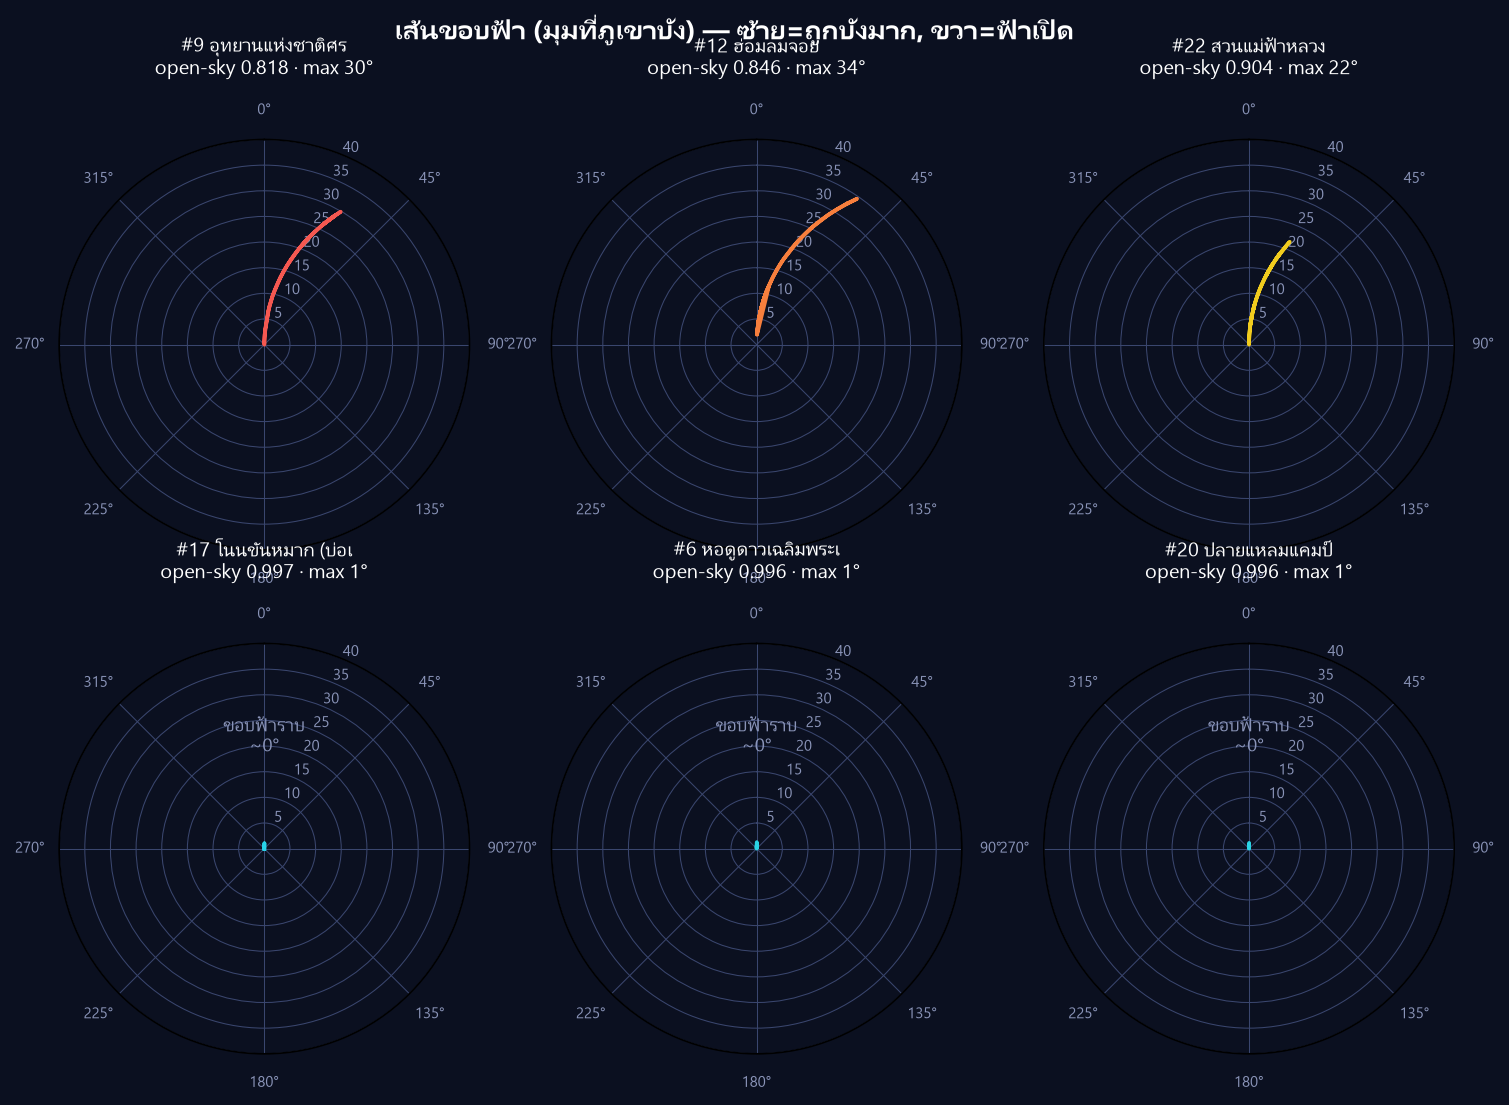
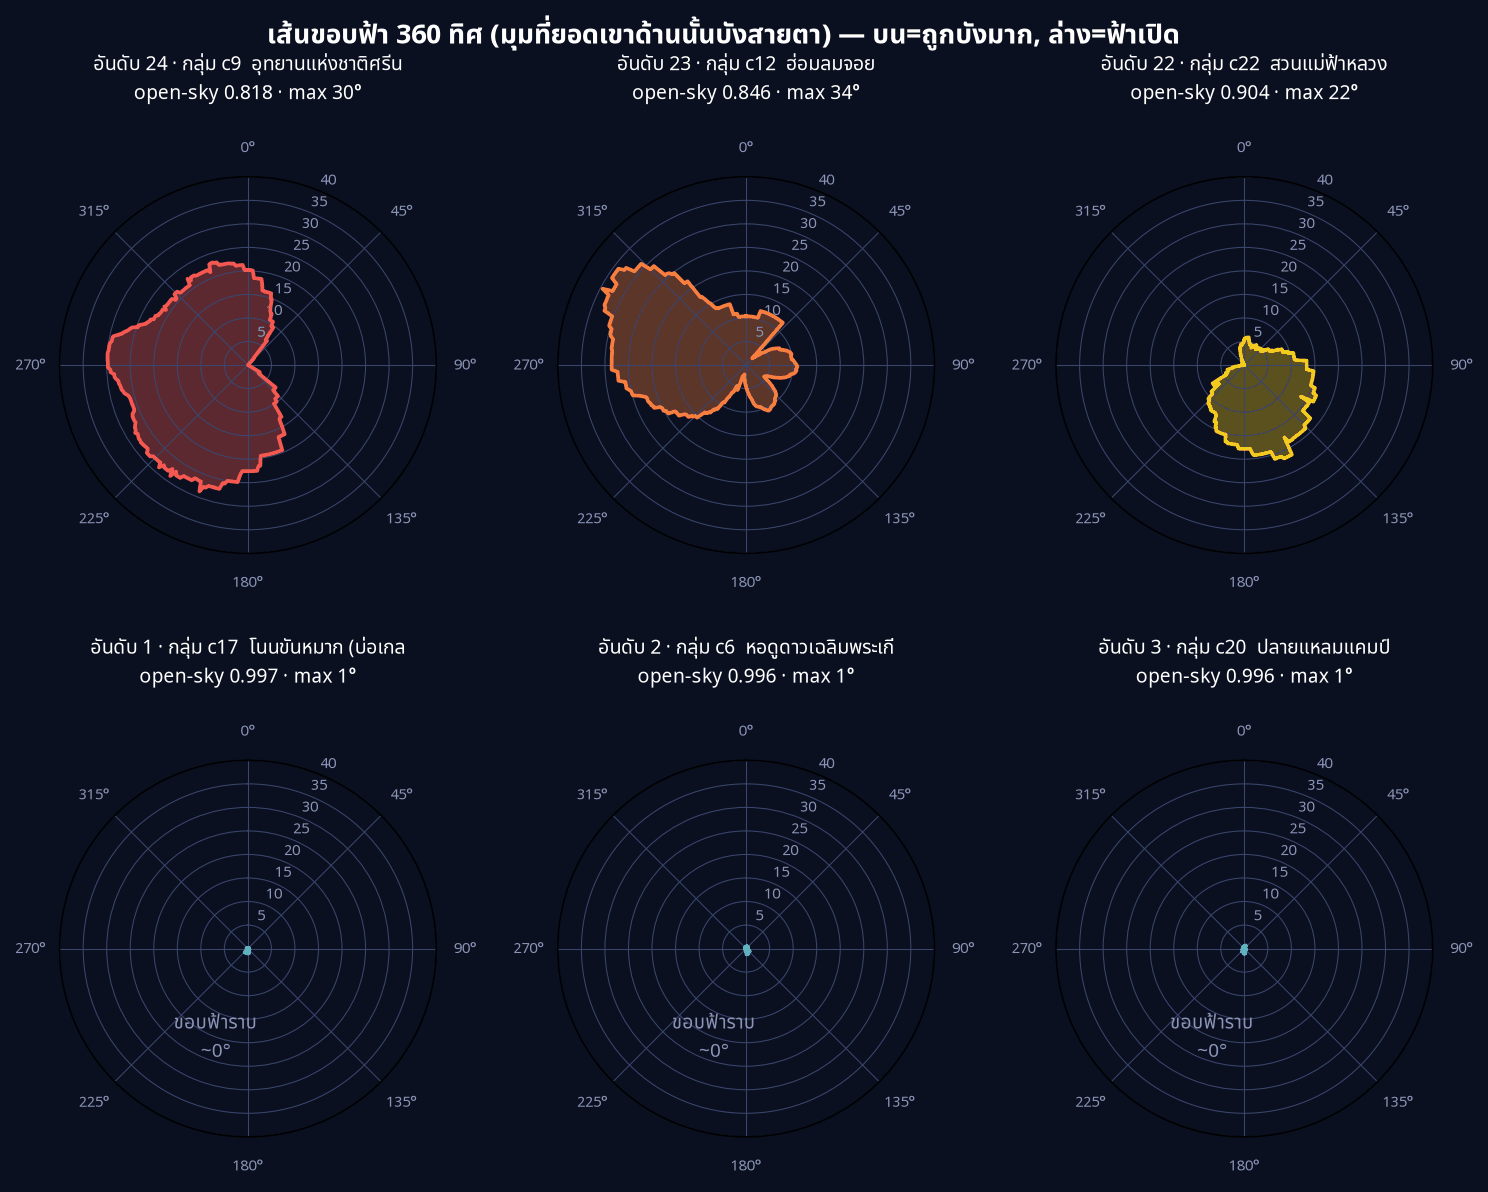
Built site for gh-pages

diff --git a/posts/day05-sight/index.html b/posts/day05-sight/index.html
@@ -234,31 +234,31 @@ pre > code.sourceCode > span > a:first-child::before { text-decoration: underlin
 <tbody>
 <tr class="odd">
 <td>1</td>
-<td>#17 โนนขันหมาก (อีสาน)</td>
+<td>c17 โนนขันหมาก (อีสาน)</td>
 <td>0.997</td>
 <td>133 ม.</td>
 </tr>
 <tr class="even">
 <td>2</td>
-<td>#6 หอดูดาวเฉลิมพระเกียรติฯ ฉะเชิงเทรา</td>
+<td>c6 หอดูดาวเฉลิมพระเกียรติฯ ฉะเชิงเทรา</td>
 <td>0.996</td>
 <td>13 ม.</td>
 </tr>
 <tr class="odd">
 <td>3</td>
-<td>#20 ปลายแหลมแคมป์ (ชายทะเล)</td>
+<td>c20 ปลายแหลมแคมป์ (ชายทะเล)</td>
 <td>0.996</td>
 <td>6 ม.</td>
 </tr>
 <tr class="even">
 <td>4</td>
-<td>#13 ภาวนานิเวศน์ แคมป์</td>
+<td>c13 ภาวนานิเวศน์ แคมป์</td>
 <td>0.989</td>
 <td>55 ม.</td>
 </tr>
 <tr class="odd">
 <td>5</td>
-<td>#15 คชอาณาจักรสุรินทร์</td>
+<td>c15 คชอาณาจักรสุรินทร์</td>
 <td>0.989</td>
 <td>129 ม.</td>
 </tr>
@@ -277,47 +277,56 @@ pre > code.sourceCode > span > a:first-child::before { text-decoration: underlin
 <tbody>
 <tr class="odd">
 <td>1</td>
-<td>#9 อุทยานแห่งชาติศรีน่าน</td>
+<td>c9 อุทยานแห่งชาติศรีน่าน</td>
 <td><strong>0.818</strong></td>
 <td>16.4°</td>
 <td>29.9°</td>
 </tr>
 <tr class="even">
 <td>2</td>
-<td>#12 ฮ่อมลมจอย</td>
+<td>c12 ฮ่อมลมจอย</td>
 <td>0.846</td>
 <td>13.8°</td>
 <td>34.5°</td>
 </tr>
 <tr class="odd">
 <td>3</td>
-<td>#22 สวนแม่ฟ้าหลวง</td>
+<td>c22 สวนแม่ฟ้าหลวง</td>
 <td>0.904</td>
 <td>8.7°</td>
 <td>21.6°</td>
 </tr>
 <tr class="even">
 <td>4</td>
-<td>#19 ขุนเขา ตำนานไพร รีสอร์ท</td>
+<td>c19 ขุนเขา ตำนานไพร รีสอร์ท</td>
 <td>0.909</td>
 <td>8.2°</td>
 <td>15.2°</td>
 </tr>
 <tr class="odd">
 <td>5</td>
-<td>#11 วนอุทยานน้ำตกผาหลวง</td>
+<td>c11 วนอุทยานน้ำตกผาหลวง</td>
 <td>0.919</td>
 <td>7.3°</td>
 <td>15.4°</td>
 </tr>
 </tbody>
 </table>
-<p><strong>ข้อสรุปที่ขัดสัญชาตญาณ:</strong> <em>“ฟ้ามืด” ไม่ได้แปลว่า “ฟ้าเปิด”</em> — อุทยานฯ ศรีน่าน (#9) เป็น หนึ่งใน hotspot มืดจัดจาก Day 4 แต่กลับมีเส้นขอบฟ้าแย่ที่สุด (open-sky 0.818, ภูเขาบังสูงถึง ~30°) เพราะจุดนี้อยู่ใน <strong>หุบเขา</strong> มืดจากแสงไฟแต่โดนเขาล้อม → เหมาะส่องดาวเหนือศีรษะ (zenith) แต่เสียเปรียบมากเวลาจะดูดาว/ดาวเคราะห์ที่ <em>ต่ำใกล้ขอบฟ้า</em></p>
+<p><strong>ข้อสรุปที่ขัดสัญชาตญาณ:</strong> <em>“ฟ้ามืด” ไม่ได้แปลว่า “ฟ้าเปิด”</em> — อุทยานฯ ศรีน่าน (c9) เป็น หนึ่งใน hotspot มืดจัดจาก Day 4 แต่กลับมีเส้นขอบฟ้าแย่ที่สุด (open-sky 0.818, ภูเขาบังสูงถึง ~30°) เพราะจุดนี้อยู่ใน <strong>หุบเขา</strong> มืดจากแสงไฟแต่โดนเขาล้อม → เหมาะส่องดาวเหนือศีรษะ (zenith) แต่เสียเปรียบมากเวลาจะดูดาว/ดาวเคราะห์ที่ <em>ต่ำใกล้ขอบฟ้า</em></p>
 <p>และ <strong>เส้นขอบฟ้ามีทิศทาง</strong> — กราฟกุหลาบ (roses) ด้านล่างบอกว่าจะเห็น “ทางไหน” บ้าง:</p>
 <p><img src="day05_roses.png" class="img-fluid"></p>
-<p><em>ซ้ายบน = ถูกบังมากสุด 3 จุด (เส้นขยายออก = ภูเขาบังสูง) · ขวาล่าง = ฟ้าเปิด ~0° (ขอบฟ้าราบ)</em></p>
+<p><em>แถวบน = ถูกบังมากสุด 3 จุด (เส้นขยายออก = ภูเขาบังสูง) · แถวล่าง = ฟ้าเปิด ~0° (ขอบฟ้าราบทั้งวง)</em></p>
 <p>ฝั่ง <strong>A) Terrain viewshed</strong> จาก 3 ยอดเขาสูงจริง (ป่าสนวัดจันทร์ · แม่่วงก์ · แม่ฟ้าหลวง, ระดับสายตา ~1 กม.) แสดงพื้นที่ cyan ว่าสายตาสัมผัสถึง:</p>
 <p><img src="day05_fans.png" class="img-fluid"></p>
+<section id="วาดวยตวเลขบนรป-ปรบปรง-7-พ.ย.-2569" class="level3">
+<h3 class="anchored" data-anchor-id="วาดวยตวเลขบนรป-ปรบปรง-7-พ.ย.-2569">ว่าด้วยตัวเลขบนรูป (ปรับปรุง 7 พ.ย. 2569)</h3>
+<p>รูปทั้งสามในโพสต์นี้ถูกวาดใหม่ มีแก้ 2 เรื่อง</p>
+<ul>
+<li><strong>ตัวเลขในวงกลม</strong> ของเดิมเป็นเลขกลุ่มจาก Day 4 (<code>#17</code>) ซึ่งเป็น <em>ตัวระบุกลุ่ม</em> ไม่ใช่ลำดับ ความฟ้าเปิด คนอ่านจึงตีความผิด ตอนนี้เลขใหญ่ = <strong>อันดับความฟ้าเปิด</strong> (1 = เปิดที่สุด) และ เลขกลุ่มเดิมย้ายไปเป็น <code>cNN</code> ตัวเล็กข้างจุด ตารางด้านบนจึงเขียนเป็น <code>c17</code> แทน <code>#17</code></li>
+<li><strong>กราฟวงเส้นขอบฟ้า</strong> โค้ดเดิมพล็อต azimuth ผิด — เอา <em>ค่ามุมที่ยอดเขาบัง</em> ไปใช้เป็นมุมรอบวง เส้นจึงถูกวาดแค่ช่วง 0–45° ทั้งที่หัวข้อบอก 360 ทิศ ของใหม่ลากครบ 360° แล้วเห็นทันทีว่า อุทยานแห่งชาติศรีน่านโดนบังหนักทางทิศตะวันตก–ตะวันตกเฉียงเหนือ ส่วนฮ่อมลมจอยมีแฉกสองทาง</li>
+</ul>
+<p>รูปก่อนแก้ยังดูได้ใน git history (commit <code>5d8f213</code> — “done day 5”)</p>
+</section>
 </section>
 <section id="วธทำแบบยอ" class="level2">
 <h2 class="anchored" data-anchor-id="วธทำแบบยอ">วิธีทำแบบย่อ</h2>

diff --git a/index.html b/index.html
@@ -236,7 +236,7 @@ window.Quarto = {
 </a>
 </div>
 </div>
[2 lines of base64/hex data omitted]
 <div class="thumbnail"><a href="./posts/day05-sight/index.html" class="no-external-icon">
 
 <img loading="lazy" src="./posts/day05-sight/day05_sight_preview.png" class="thumbnail-image">
